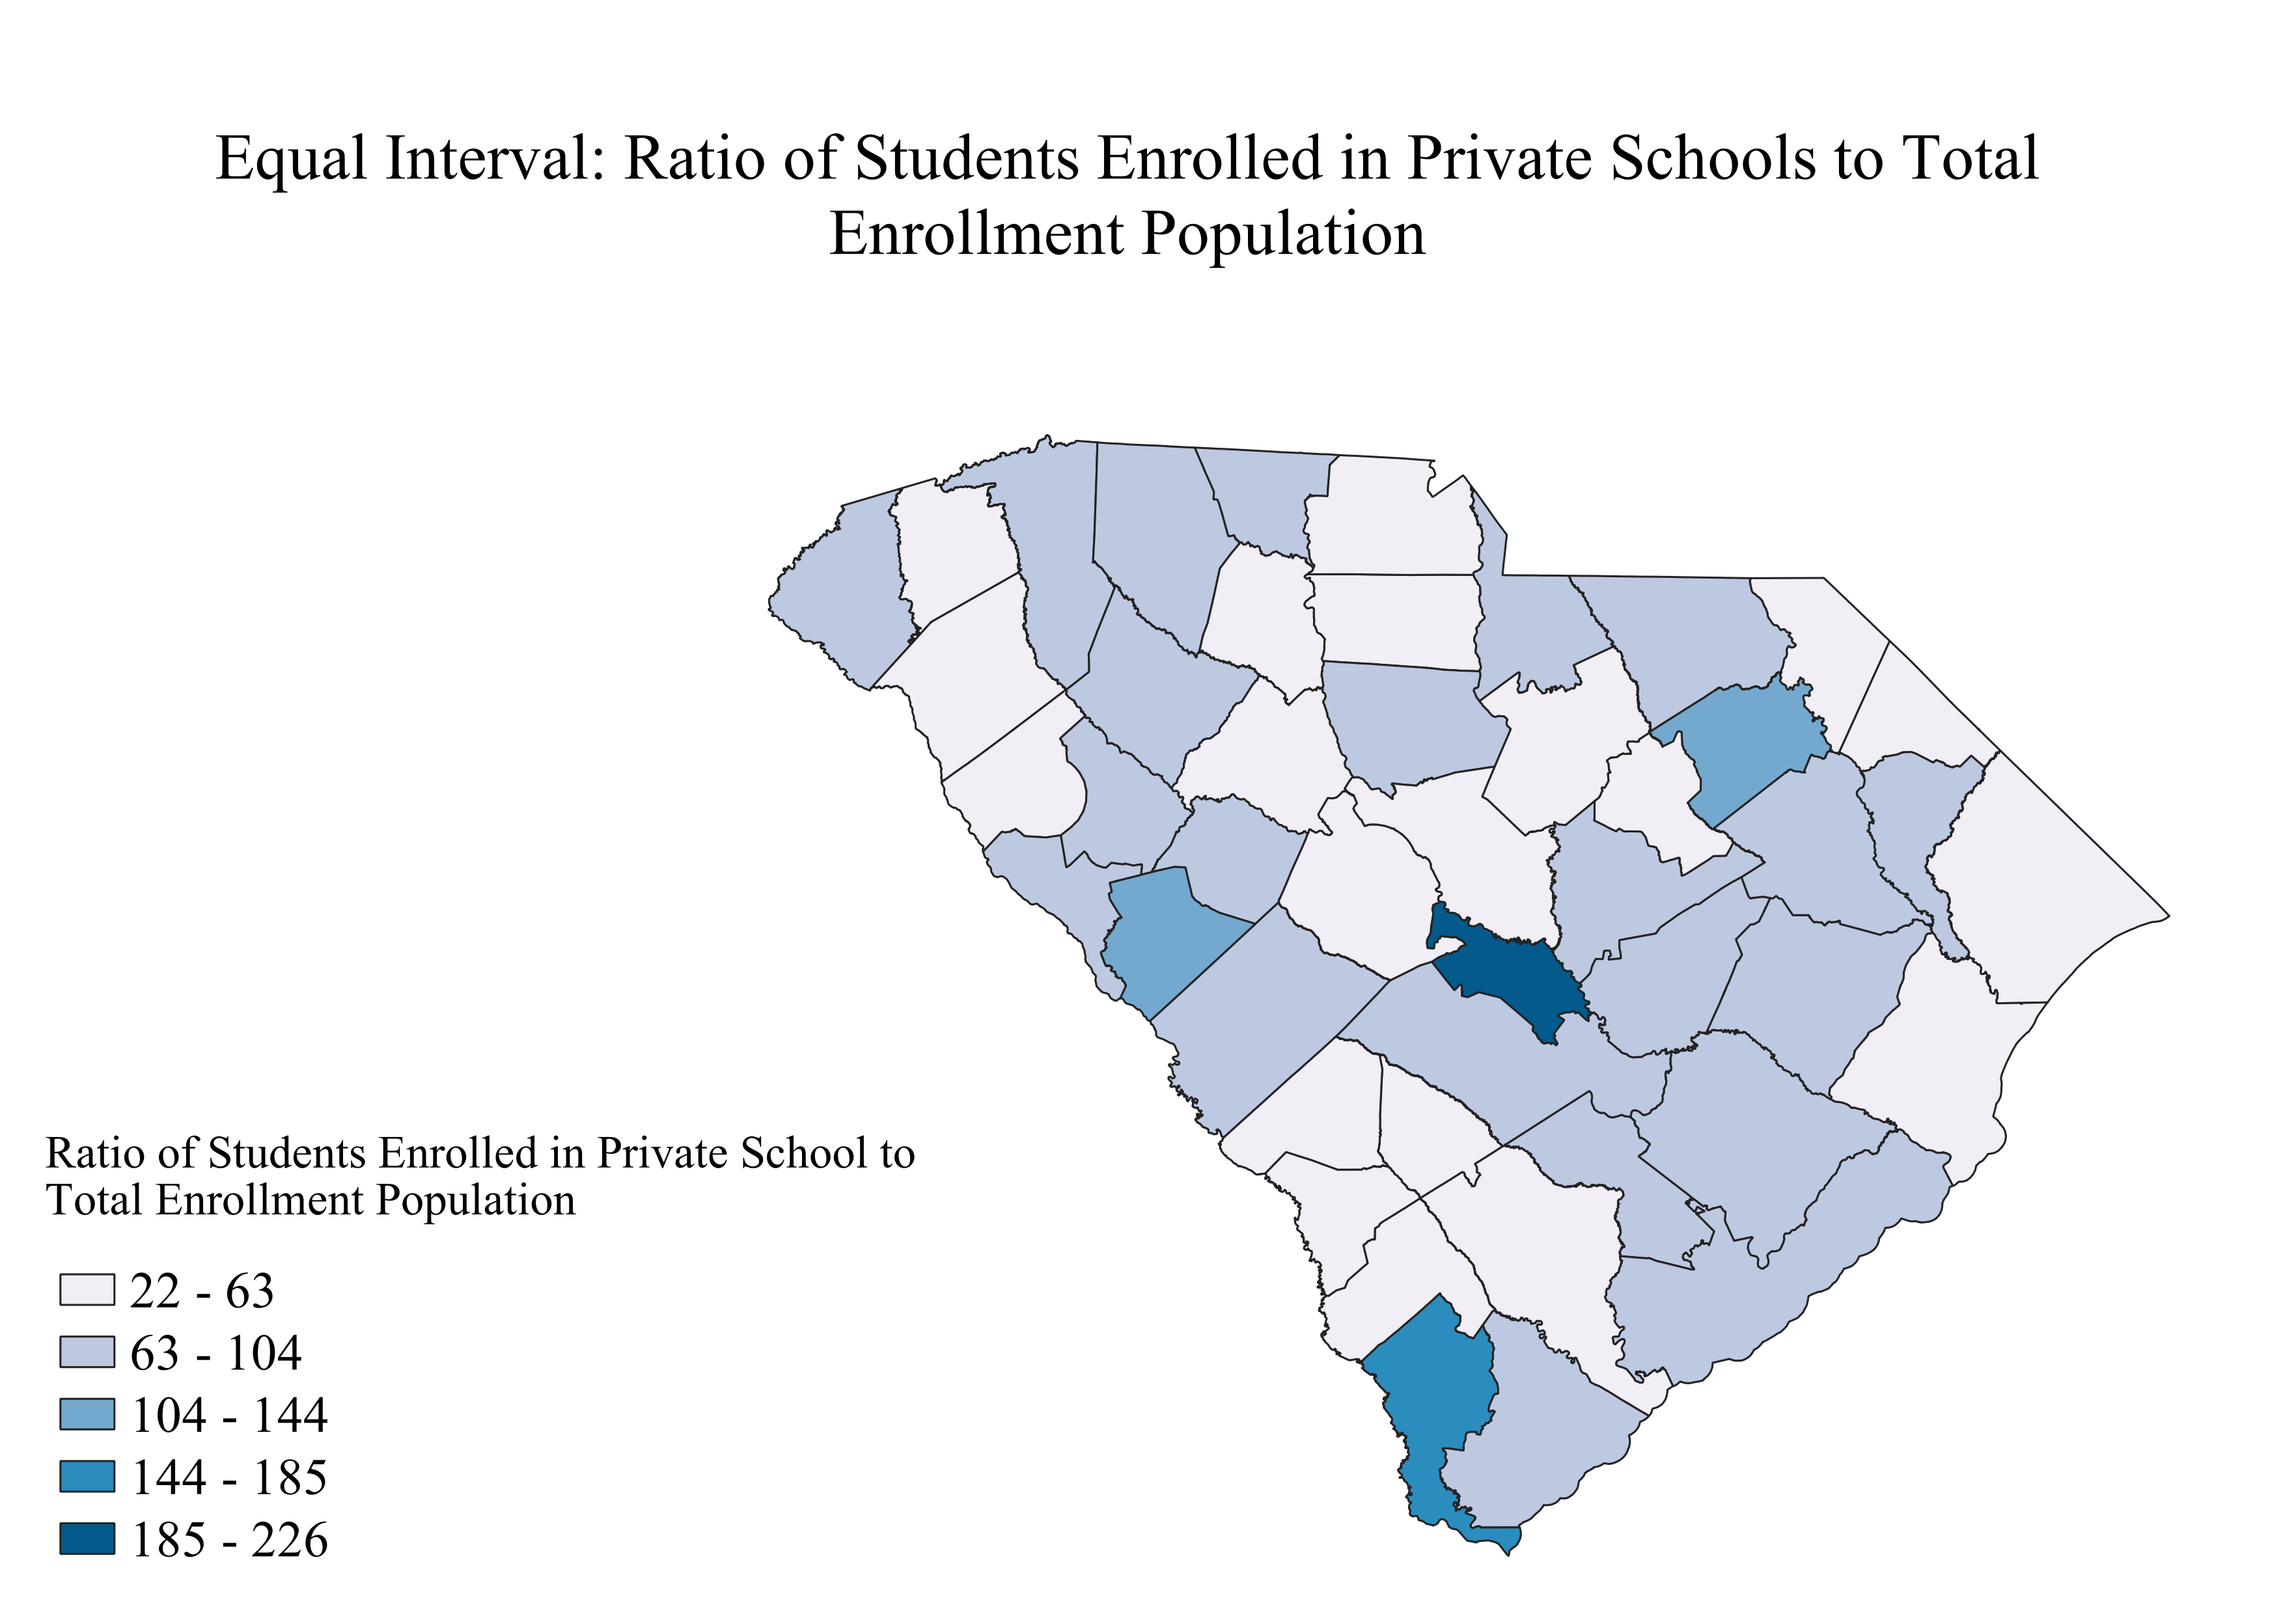
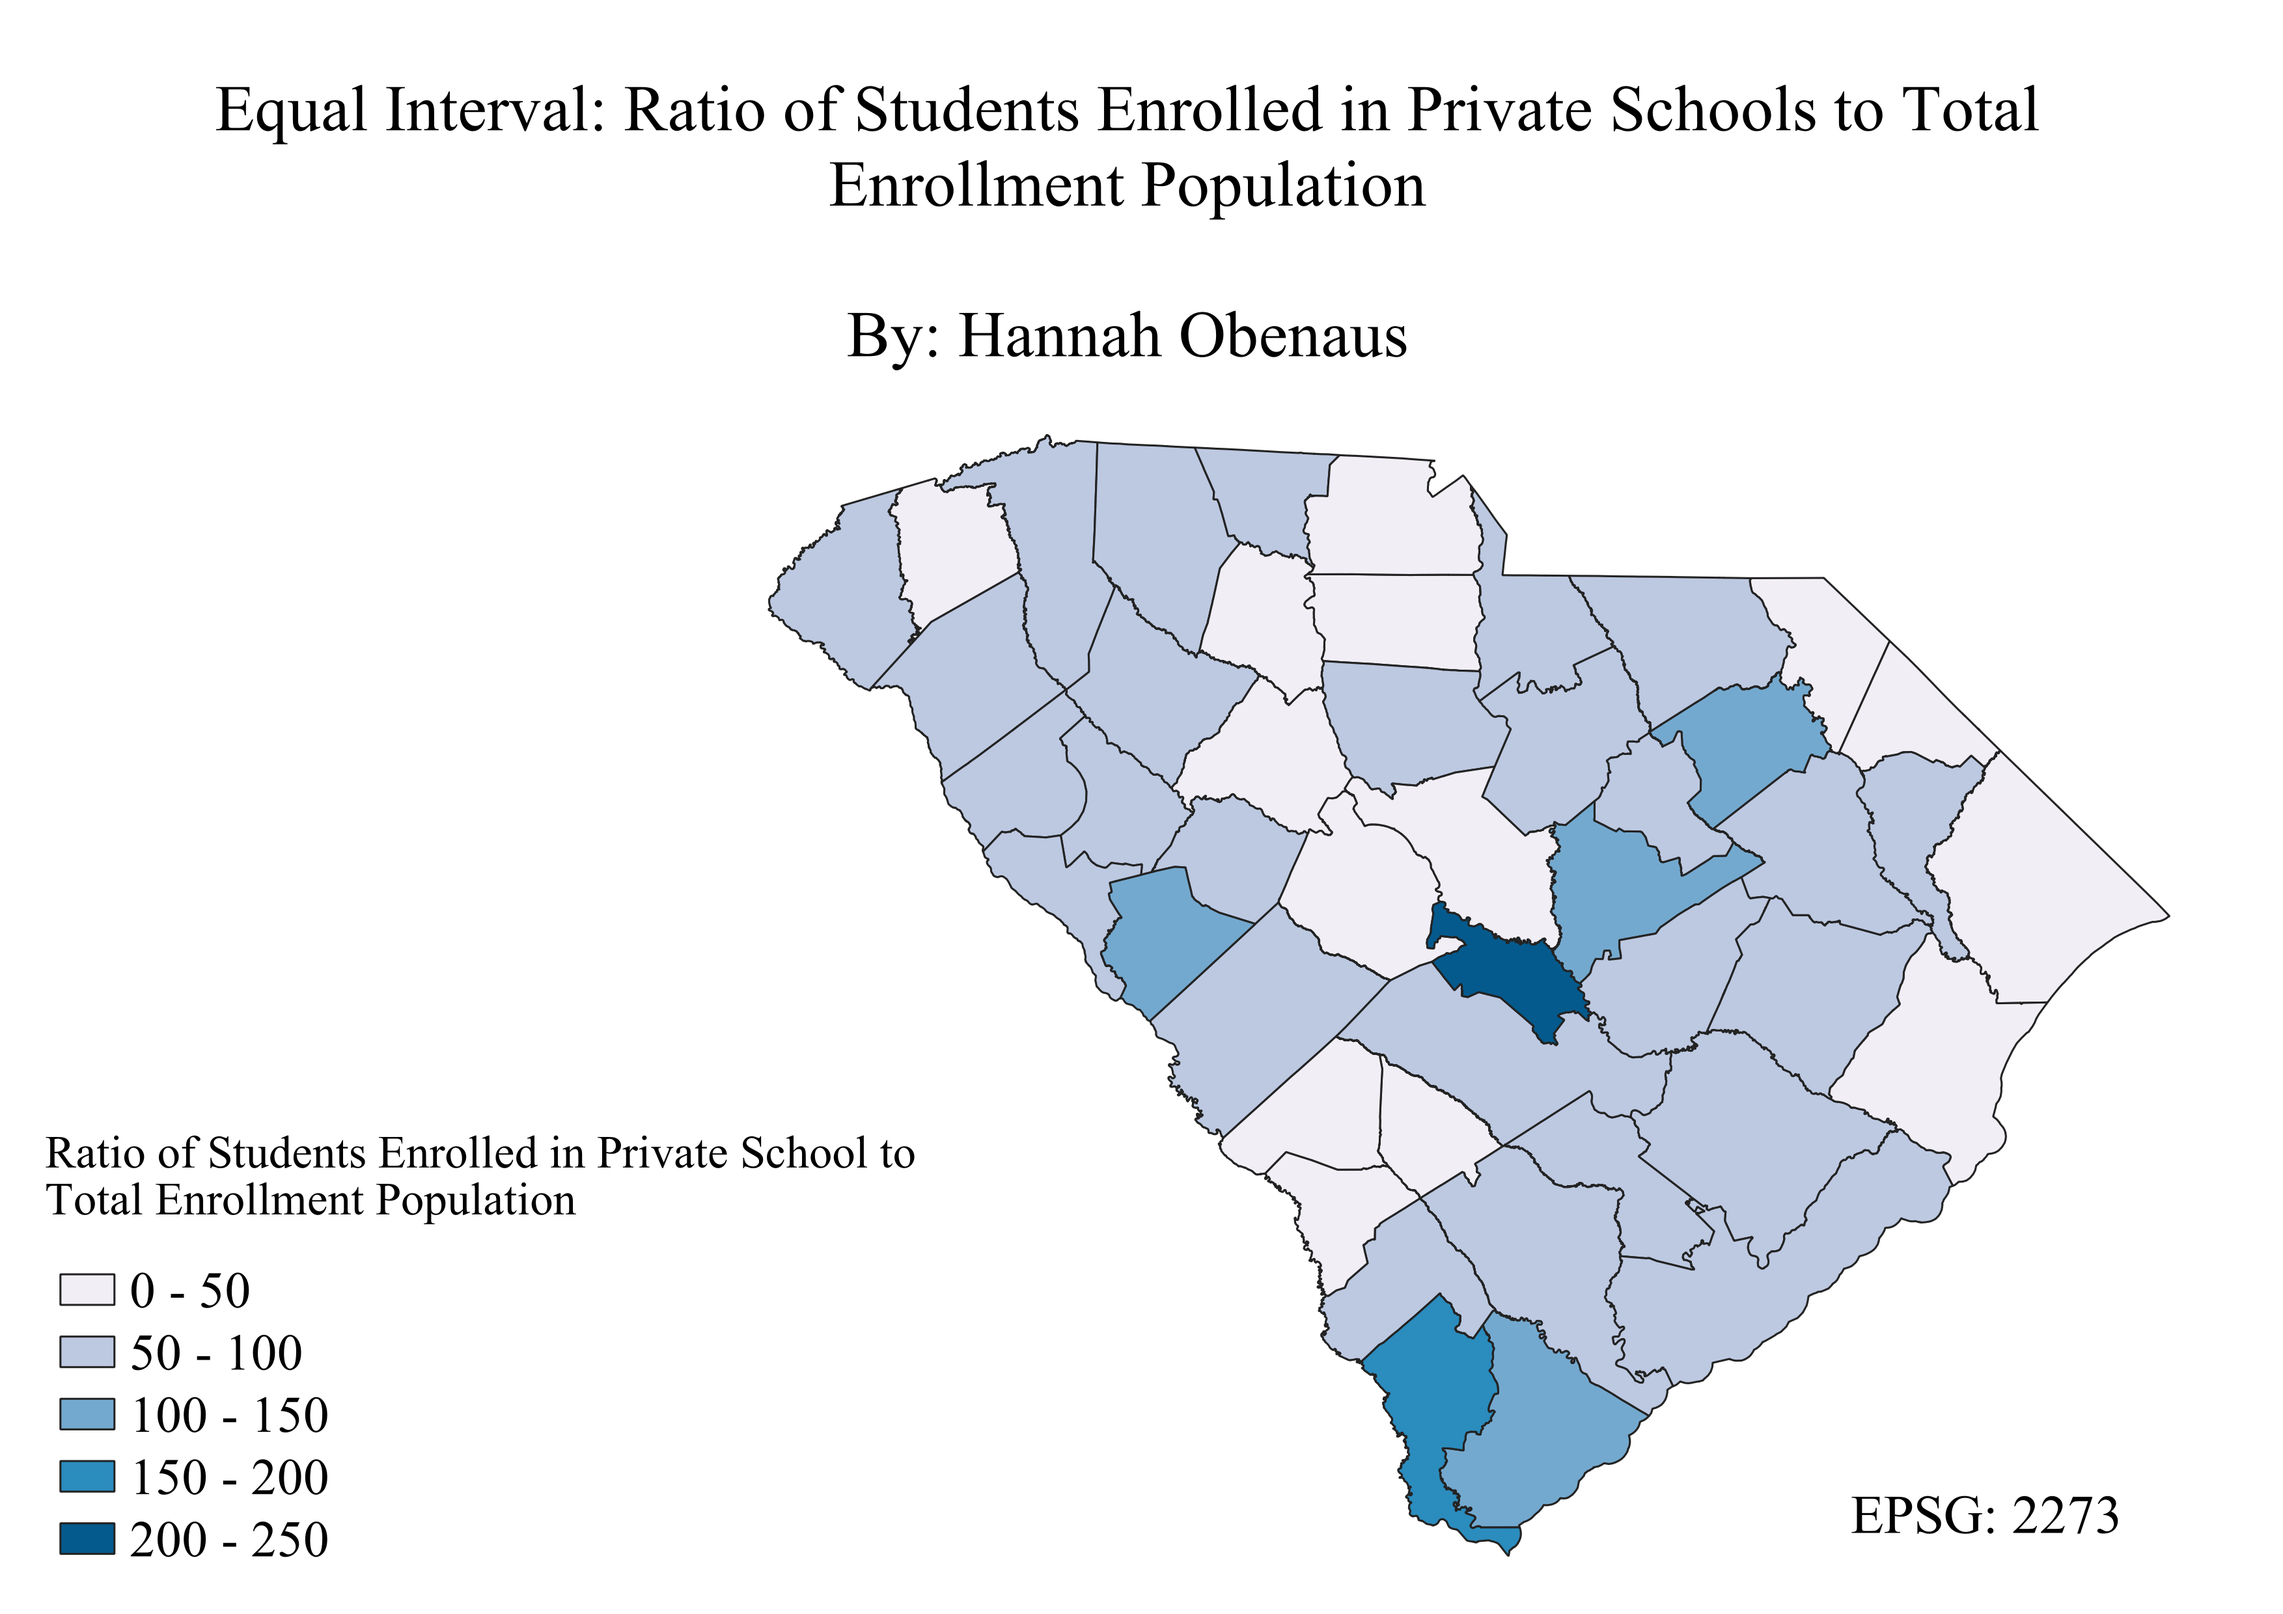
update

diff --git a/homework 8/hw8_template.html b/homework 8/hw8_template.html
@@ -8,23 +8,30 @@
 <body>
 <h1>Homework 8: Ratios and Categories Education Census Data </h1>
 <h2>Hannah Obenaus</h2>
-<h3>I chose to display the ratio of students (kindegarten - 12th grade) enrolled in private schools to the total population of enrolled students (kindegarten - 12th grade) by county. I was interested to see which counties had the largest percent of students enrolled in private schools because South Carolina is ranked #44 in education. This ranking is measured using standardized test scores and public high school graduation rates. There seems to be a correlation between public school district ranking and the ratio of students enrolled in private schools. Calhoun County has a low state ranking for public school districts, and has the highest ratio of private school students. York, Richland, and Lexington County have the top three public school systems in the state and are in the lowest ratio interval of private school students. There are 46 counties in South Carolina so I decided to divide the data into 5 classes to create an easy to read map that still displayed the variance in data.</h3>
+<h3>I chose to display the ratio of students (kindegarten - 12th grade) enrolled in private schools to the total population of enrolled students (kindegarten - 12th grade) by county. I created this ratio using 2019 data from the US Census. I inserted a new column into the attribute table, after joining county and census data tables, that divided the private school population by the total population. I then multiplied the quotient by 1000 to make the numbers easy to interpret. I was interested to see which counties had the largest ratio of students enrolled in private schools because South Carolina is ranked #44 in education. This ranking is measured using standardized test scores and public high school graduation rates. There seems to be a correlation between the county's public school district ranking and the ratio of students enrolled in private schools. Calhoun County has a low state ranking for its public school district, and has the highest ratio of private school students. York, Richland, and Lexington County have the top three public school districts in the state and have the lowest ratio interval of private school students. There are 46 counties in South Carolina so I decided to divide the data into 5 classes to create an easy to read map that still displayed variance in the data.</h3>
 <!-- Your map goes here -->
 <a href="./equal interval.png">
     <img src="./equal interval.png" alt="Equal Interval Category" width='500px'>
     </a>
-    <h3>This map shows the data using an equal interval classification scheme. An advnatage of equal interval is that the legend and map are easy to read and understand. However, because this classification divides the data into equal intervals, the map does not always display the data effectively. Just by looking at the shades on this map vs. the one below, you can see there is less variance in color.</h3>
+    <h3>This map shows the data using an equal interval classification scheme. An advnatage of equal interval is that the legend and map are easy to read and understand. However, because this classification divides the data into equal intervals, the map does not always display the data effectively. Just by looking at the shading on this map vs. the one below, you can see there is less variance in color.</h3>
     <!-- Your map goes here -->
     <a href="./natural breaks.png">
         <img src="./natural breaks.png" alt="Natural Breaks Category" width='500px'>
         </a>
-        <h3>This map shows the data using a natural break classification scheme. An advantage of natural breaks is that it recognizes variance in the data and groups data this way. However, for data that does not have much variance this classification is ineffective. </h3>
+        <h3>This map shows the data using a natural break classification scheme. An advantage of natural breaks is that it recognizes variance in the data and groups data based on its similarities and differences. However, for data that does not have much variance this classification is ineffective. </h3>
 <!-- Your map goes here -->
 <a href="./pretty breaks.png">
     <img src="./pretty breaks.png" alt="Pretty Breaks Category" width='500px'>
     </a>
-    <h3> This map shows the data using a pretty break classification scheme. An advantage of pretty breaks is that the legend and map are visually pleasing. However, if your data does not cover a wide range with lots of variance, then this classification is ineffective. This map has less variance in color than the one above.</h3>
-
+    <h3> This map shows the data using a pretty break classification scheme. An advantage of pretty breaks is that the legend and map are visually pleasing. However, if your data does not have much variance, this classification is ineffective. This map has less variance in color than the one above.</h3>
+    
+    <h2>Data Sources</h2>
+    <blockquote>
+        <a href="https://www.usnews.com/news/best-states/rankings/education">
+        </a></br> 
+        <a href="https://backgroundchecks.org/top-school-districts-in-south-carolina-2018.html"></a></br>
+        <a href="https://data.census.gov/cedsci/all?t=Education&g=0400000US45.050000"></a>
+    </blockquote>
 
 </body>
 </html>
